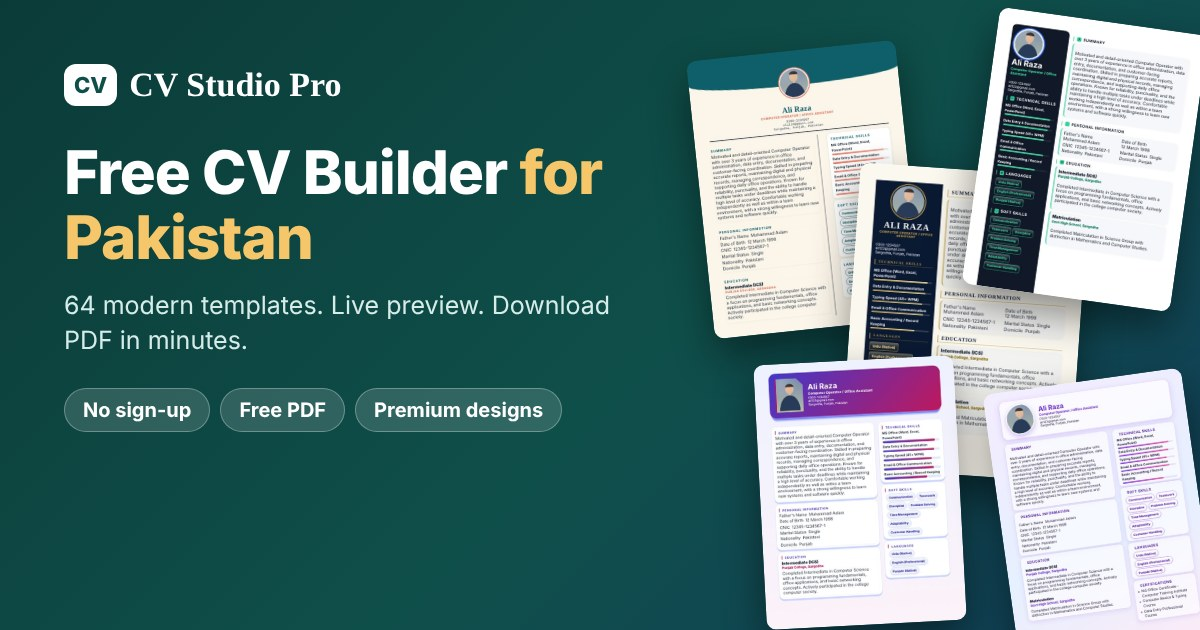
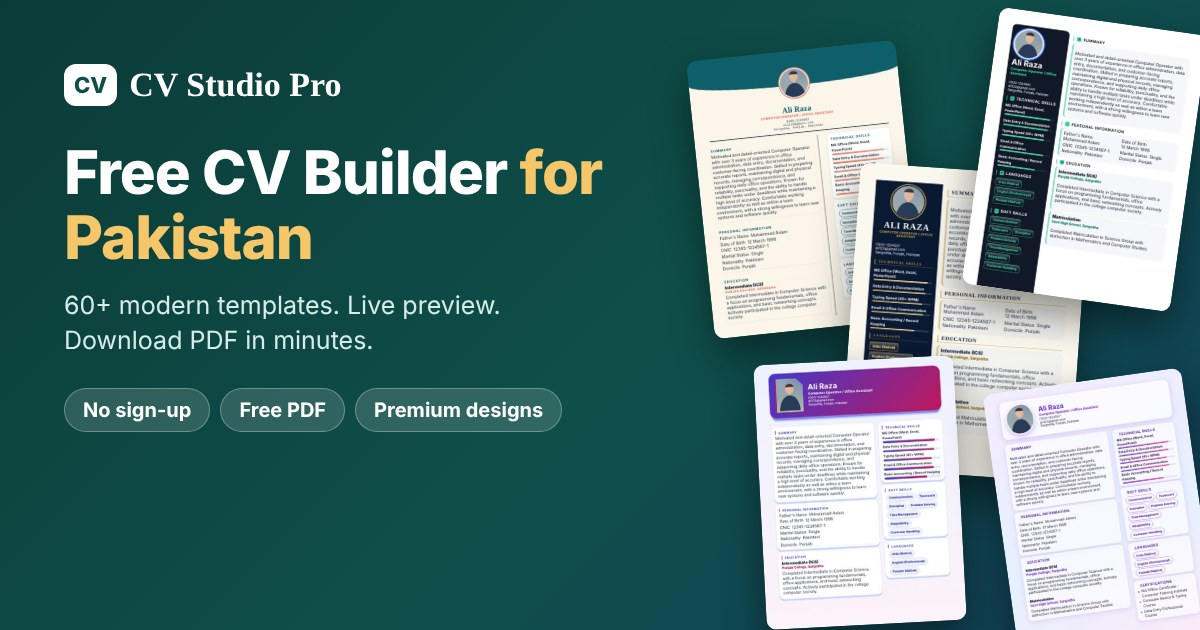
Batch 64: sharing image and about text say "60+ templates" (no stale count)

Changed region(s): [[0.0617, 0.4524, 0.5242, 0.573]]

diff --git a/about.html b/about.html
@@ -1,4 +1,4 @@
-<!DOCTYPE html><html lang="en"><head><meta charset="UTF-8"><meta name="google-site-verification" content="KQkmMX9DgDrYEqAFezKnso8qbov80j2Kjgqaccl7Gts" /><meta name="viewport" content="width=device-width,initial-scale=1.0"><title>About Us - Online CV Builder & Premium CV Service | CV Studio Pro</title><meta name="description" content="About CV Studio Pro: a free online CV builder for Pakistan with 64 templates, live preview, PDF and Word download, and optional premium designs."><link rel="canonical" href="https://uppalc.github.io/cvstudiopro/about.html"><link rel="icon" href="favicon.svg" type="image/svg+xml"><link rel="stylesheet" href="css/style.css"><link rel="stylesheet" href="css/home.css"><meta property="og:site_name" content="CV Studio Pro"><meta property="og:locale" content="en_PK"><meta property="og:type" content="website"><meta property="og:title" content="About Us - Online CV Builder & Premium CV Service | CV Studio Pro"><meta property="og:description" content="About CV Studio Pro: a free online CV builder for Pakistan with 64 templates, live preview, PDF and Word download, and optional premium designs."><meta property="og:url" content="https://uppalc.github.io/cvstudiopro/about.html"><meta property="og:image" content="https://uppalc.github.io/cvstudiopro/img/og-cover-v2.jpg"><meta property="og:image:width" content="1200"><meta property="og:image:height" content="630"><meta property="og:image:alt" content="CV Studio Pro: build a professional CV online with free and premium templates"><meta name="twitter:card" content="summary_large_image"><meta name="twitter:title" content="About Us - Online CV Builder & Premium CV Service | CV Studio Pro"><meta name="twitter:description" content="About CV Studio Pro: a free online CV builder for Pakistan with 64 templates, live preview, PDF and Word download, and optional premium designs."><meta name="twitter:image" content="https://uppalc.github.io/cvstudiopro/img/og-cover-v2.jpg"><meta name="theme-color" content="#1d3a8a"></head><body class="home2"><div class="wrap"><nav class="nav"><div class="brand">CV Studio <span>Pro</span></div><div class="links"><a href="index.html">Home</a><a href="templates.html">Templates</a><a href="builder.html">Builder</a><a href="guide.html">Guide</a><a href="pricing.html">Pricing</a><a href="about.html">About</a><a href="contact.html">Contact</a></div></nav><section class="topbar"><h1>About CV Studio Pro</h1><p>A simple, honest CV builder made for job seekers in Pakistan. Start free, and pay only if you want a premium design.</p></section>
+<!DOCTYPE html><html lang="en"><head><meta charset="UTF-8"><meta name="google-site-verification" content="KQkmMX9DgDrYEqAFezKnso8qbov80j2Kjgqaccl7Gts" /><meta name="viewport" content="width=device-width,initial-scale=1.0"><title>About Us - Online CV Builder & Premium CV Service | CV Studio Pro</title><meta name="description" content="About CV Studio Pro: a free online CV builder for Pakistan with 60+ templates, live preview, PDF and Word download, and optional premium designs."><link rel="canonical" href="https://uppalc.github.io/cvstudiopro/about.html"><link rel="icon" href="favicon.svg" type="image/svg+xml"><link rel="stylesheet" href="css/style.css"><link rel="stylesheet" href="css/home.css"><meta property="og:site_name" content="CV Studio Pro"><meta property="og:locale" content="en_PK"><meta property="og:type" content="website"><meta property="og:title" content="About Us - Online CV Builder & Premium CV Service | CV Studio Pro"><meta property="og:description" content="About CV Studio Pro: a free online CV builder for Pakistan with 60+ templates, live preview, PDF and Word download, and optional premium designs."><meta property="og:url" content="https://uppalc.github.io/cvstudiopro/about.html"><meta property="og:image" content="https://uppalc.github.io/cvstudiopro/img/og-cover-v2.jpg"><meta property="og:image:width" content="1200"><meta property="og:image:height" content="630"><meta property="og:image:alt" content="CV Studio Pro: build a professional CV online with free and premium templates"><meta name="twitter:card" content="summary_large_image"><meta name="twitter:title" content="About Us - Online CV Builder & Premium CV Service | CV Studio Pro"><meta name="twitter:description" content="About CV Studio Pro: a free online CV builder for Pakistan with 60+ templates, live preview, PDF and Word download, and optional premium designs."><meta name="twitter:image" content="https://uppalc.github.io/cvstudiopro/img/og-cover-v2.jpg"><meta name="theme-color" content="#1d3a8a"></head><body class="home2"><div class="wrap"><nav class="nav"><div class="brand">CV Studio <span>Pro</span></div><div class="links"><a href="index.html">Home</a><a href="templates.html">Templates</a><a href="builder.html">Builder</a><a href="guide.html">Guide</a><a href="pricing.html">Pricing</a><a href="about.html">About</a><a href="contact.html">Contact</a></div></nav><section class="topbar"><h1>About CV Studio Pro</h1><p>A simple, honest CV builder made for job seekers in Pakistan. Start free, and pay only if you want a premium design.</p></section>
 <section class="section"><h2>What is CV Studio Pro?</h2><p class="muted">CV Studio Pro is a website where you type your details once and see your CV update live. You can choose from 67 designs, change the design at any time without losing your details, and download your CV as a PDF or a Word file. You do not need to create an account.</p></section>
 <section class="section"><h2>Who is it for?</h2><div class="grid3 why3d"><div class="card"><h3>Freshers and students</h3><p class="muted">Simple layouts and ready-made summary suggestions help you make your first CV without design skills.</p></div><div class="card"><h3>Working professionals</h3><p class="muted">Clean, professional designs for office, sales, technical, medical and other jobs, with sections in the order employers expect.</p></div><div class="card"><h3>People who want a stronger look</h3><p class="muted">Premium designs with photo frames, colour themes and modern layouts, ordered with simple manual support.</p></div></div></section>
 <section class="section"><h2>What is free and what is premium?</h2><div class="grid3 why3d"><div class="card"><h3>Free</h3><p class="muted">The builder, live preview, free templates, PDF download and editable Word download. No sign-up needed.</p></div><div class="card"><h3>Premium</h3><p class="muted">You can try any premium design with your own details for free. To download it, you order and receive an access code.</p></div><div class="card"><h3>How a premium order works</h3><p class="muted">You pay, send your order, we confirm the payment manually, and we send you your access code. See the <a href="pricing.html">Pricing</a> and <a href="refund.html">Refund Policy</a> pages for the details.</p></div></div></section>
